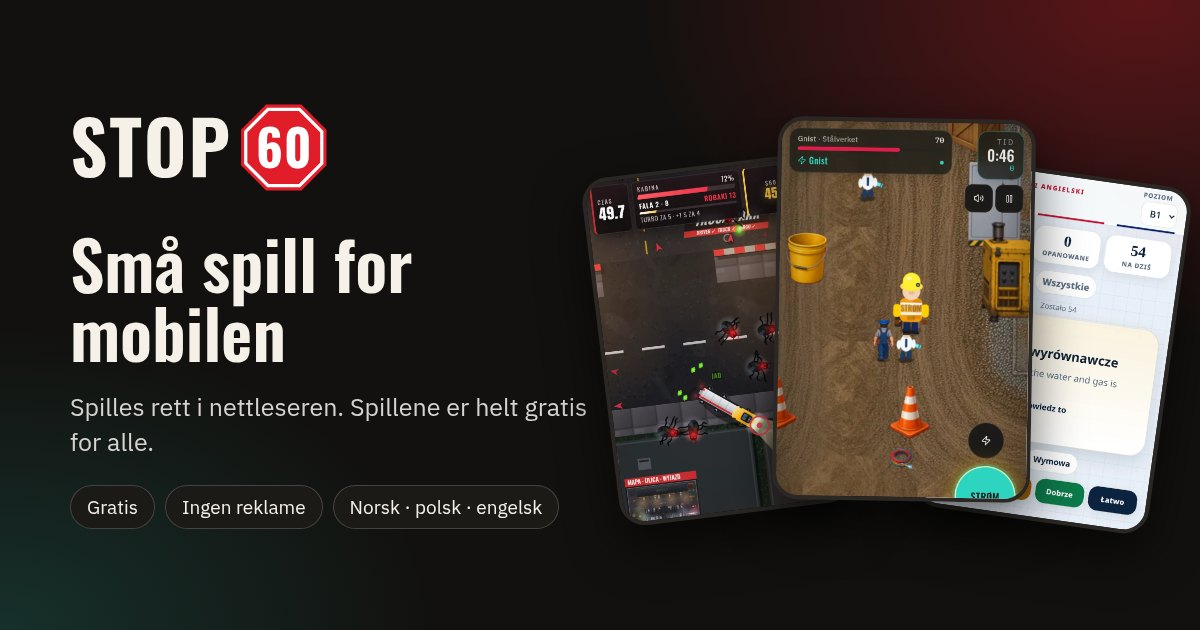
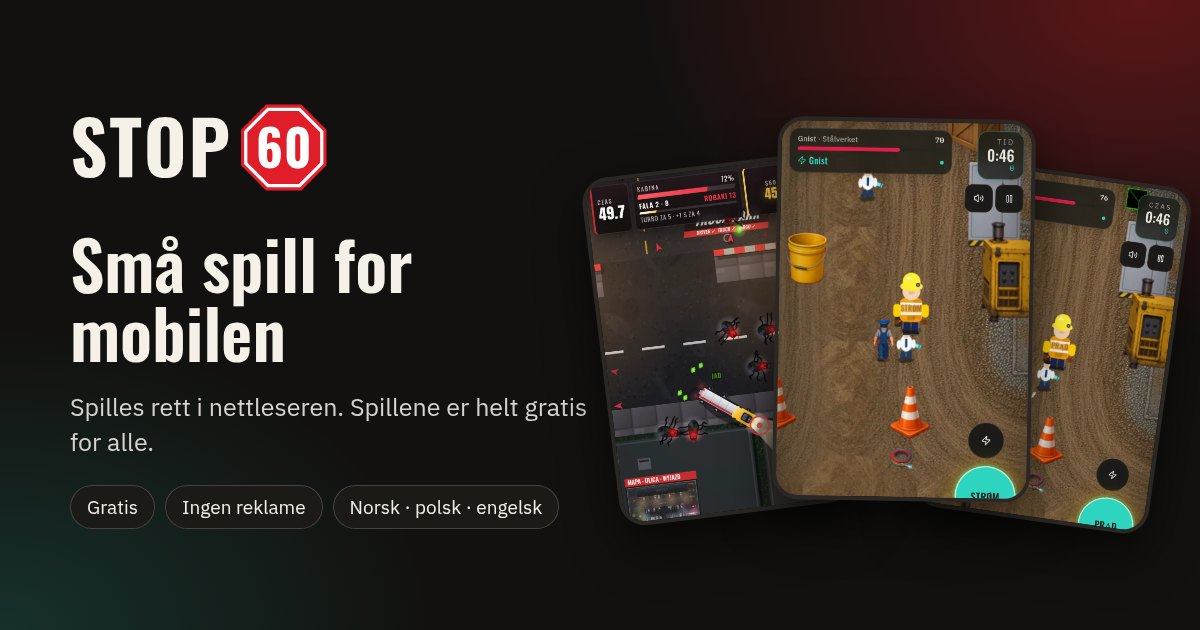
Remove Angielski elektryk from portfolio (card, JSON-LD, OG images, event); intro: games made with passion

Changed region(s): [[0.7708, 0.2714, 1.0, 0.8444]]

diff --git a/en/index.html b/en/index.html
@@ -27,7 +27,7 @@
 <meta property="og:locale" content="en_GB"/>
 <meta property="og:locale:alternate" content="nb_NO"/>
 <meta property="og:locale:alternate" content="pl_PL"/>
-<meta property="og:image" content="https://stop60.no/portfolio-test/assets/og-en.jpg"/>
+<meta property="og:image" content="https://stop60.no/portfolio-test/assets/og-en.jpg?v=2"/>
 <meta property="og:image:type" content="image/jpeg"/>
 <meta property="og:image:width" content="1200"/>
 <meta property="og:image:height" content="630"/>
@@ -35,9 +35,9 @@
 <meta name="twitter:card" content="summary_large_image"/>
 <meta name="twitter:title" content="Stop60 – small free browser games"/>
 <meta name="twitter:description" content="Small phone games from Stop60. Play straight in the browser, completely free and with no ads. English, Norwegian and Polish."/>
-<meta name="twitter:image" content="https://stop60.no/portfolio-test/assets/og-en.jpg"/>
+<meta name="twitter:image" content="https://stop60.no/portfolio-test/assets/og-en.jpg?v=2"/>
 <meta name="twitter:image:alt" content="Stop60 – Small free browser games"/>
-<script type="application/ld+json">{"@context":"https://schema.org","@graph":[{"@type":"Organization","@id":"https://stop60.no/#org","name":"Stop60","url":"https://stop60.no/","logo":"https://stop60.no/assets/apple-touch-icon.png"},{"@type":"ItemList","name":"Stop60 – small free browser games","url":"https://stop60.no/portfolio/en/","itemListElement":[{"@type":"ListItem","position":1,"item":{"@type":"VideoGame","name":"POWER","url":"https://stop60.no/power/","description":"A short action game: for 60 seconds you control an electrician on a construction site. Short health and safety reminders appear as you play.","inLanguage":["en"],"image":"https://stop60.no/portfolio-test/assets/img/power-800.webp","operatingSystem":"Any (web browser)","isAccessibleForFree":true,"offers":{"@type":"Offer","price":"0","priceCurrency":"NOK"},"publisher":{"@id":"https://stop60.no/#org"},"author":{"@id":"https://stop60.no/#org"},"gamePlatform":"Web browser","applicationCategory":"GameApplication","playMode":"SinglePlayer"}},{"@type":"ListItem","position":2,"item":{"@type":"VideoGame","name":"STRØM","url":"https://stop60.no/strom/","description":"The Norwegian version of POWER, with short reminders based on Norwegian HMS (health and safety) rules.","inLanguage":["nb"],"image":"https://stop60.no/portfolio-test/assets/img/strom-800.webp","operatingSystem":"Any (web browser)","isAccessibleForFree":true,"offers":{"@type":"Offer","price":"0","priceCurrency":"NOK"},"publisher":{"@id":"https://stop60.no/#org"},"author":{"@id":"https://stop60.no/#org"},"gamePlatform":"Web browser","applicationCategory":"GameApplication","playMode":"SinglePlayer"}},{"@type":"ListItem","position":3,"item":{"@type":"VideoGame","name":"PRĄD","url":"https://stop60.no/prad/","description":"The Polish version of POWER, with short reminders based on Polish BHP (health and safety) rules.","inLanguage":["pl"],"image":"https://stop60.no/portfolio-test/assets/img/prad-800.webp","operatingSystem":"Any (web browser)","isAccessibleForFree":true,"offers":{"@type":"Offer","price":"0","priceCurrency":"NOK"},"publisher":{"@id":"https://stop60.no/#org"},"author":{"@id":"https://stop60.no/#org"},"gamePlatform":"Web browser","applicationCategory":"GameApplication","playMode":"SinglePlayer"}},{"@type":"ListItem","position":4,"item":{"@type":"VideoGame","name":"Sneaky Bugs","url":"https://stop60.no/robaki/","description":"Drive a truck around a car park at night, squash black bugs and dodge their venom. Each round lasts 60 seconds.","inLanguage":["pl","en"],"image":"https://stop60.no/portfolio-test/assets/img/robaki-800.webp","operatingSystem":"Any (web browser)","isAccessibleForFree":true,"offers":{"@type":"Offer","price":"0","priceCurrency":"NOK"},"publisher":{"@id":"https://stop60.no/#org"},"author":{"@id":"https://stop60.no/#org"},"gamePlatform":"Web browser","applicationCategory":"GameApplication","playMode":"SinglePlayer"}},{"@type":"ListItem","position":5,"item":{"@type":"WebApplication","name":"Angielski elektryk","url":"https://stop60.no/angielski-elektryk/","description":"Practise British English for work: conversations with an AI tutor called Sam about situations on site and at a customer's, plus flashcards with trade vocabulary. Made for Polish-speaking electricians.","inLanguage":["en","pl"],"image":"https://stop60.no/portfolio-test/assets/img/angielski-cards-800.webp","operatingSystem":"Any (web browser)","isAccessibleForFree":true,"offers":{"@type":"Offer","price":"0","priceCurrency":"NOK"},"publisher":{"@id":"https://stop60.no/#org"},"author":{"@id":"https://stop60.no/#org"},"applicationCategory":"EducationalApplication"}}]}]}</script>
+<script type="application/ld+json">{"@context":"https://schema.org","@graph":[{"@type":"Organization","@id":"https://stop60.no/#org","name":"Stop60","url":"https://stop60.no/","logo":"https://stop60.no/assets/apple-touch-icon.png"},{"@type":"ItemList","name":"Stop60 – small free browser games","url":"https://stop60.no/portfolio/en/","itemListElement":[{"@type":"ListItem","position":1,"item":{"@type":"VideoGame","name":"POWER","url":"https://stop60.no/power/","description":"A short action game: for 60 seconds you control an electrician on a construction site. Short health and safety reminders appear as you play.","inLanguage":["en"],"image":"https://stop60.no/portfolio-test/assets/img/power-800.webp","operatingSystem":"Any (web browser)","isAccessibleForFree":true,"offers":{"@type":"Offer","price":"0","priceCurrency":"NOK"},"publisher":{"@id":"https://stop60.no/#org"},"author":{"@id":"https://stop60.no/#org"},"gamePlatform":"Web browser","applicationCategory":"GameApplication","playMode":"SinglePlayer"}},{"@type":"ListItem","position":2,"item":{"@type":"VideoGame","name":"STRØM","url":"https://stop60.no/strom/","description":"The Norwegian version of POWER, with short reminders based on Norwegian HMS (health and safety) rules.","inLanguage":["nb"],"image":"https://stop60.no/portfolio-test/assets/img/strom-800.webp","operatingSystem":"Any (web browser)","isAccessibleForFree":true,"offers":{"@type":"Offer","price":"0","priceCurrency":"NOK"},"publisher":{"@id":"https://stop60.no/#org"},"author":{"@id":"https://stop60.no/#org"},"gamePlatform":"Web browser","applicationCategory":"GameApplication","playMode":"SinglePlayer"}},{"@type":"ListItem","position":3,"item":{"@type":"VideoGame","name":"PRĄD","url":"https://stop60.no/prad/","description":"The Polish version of POWER, with short reminders based on Polish BHP (health and safety) rules.","inLanguage":["pl"],"image":"https://stop60.no/portfolio-test/assets/img/prad-800.webp","operatingSystem":"Any (web browser)","isAccessibleForFree":true,"offers":{"@type":"Offer","price":"0","priceCurrency":"NOK"},"publisher":{"@id":"https://stop60.no/#org"},"author":{"@id":"https://stop60.no/#org"},"gamePlatform":"Web browser","applicationCategory":"GameApplication","playMode":"SinglePlayer"}},{"@type":"ListItem","position":4,"item":{"@type":"VideoGame","name":"Sneaky Bugs","url":"https://stop60.no/robaki/","description":"Drive a truck around a car park at night, squash black bugs and dodge their venom. Each round lasts 60 seconds.","inLanguage":["pl","en"],"image":"https://stop60.no/portfolio-test/assets/img/robaki-800.webp","operatingSystem":"Any (web browser)","isAccessibleForFree":true,"offers":{"@type":"Offer","price":"0","priceCurrency":"NOK"},"publisher":{"@id":"https://stop60.no/#org"},"author":{"@id":"https://stop60.no/#org"},"gamePlatform":"Web browser","applicationCategory":"GameApplication","playMode":"SinglePlayer"}}]}]}</script>
 <script data-goatcounter="https://jtaczala-games.goatcounter.com/count" async src="../count.js"></script>
 <script defer src="../assets/qrcode.min.js"></script>
 <script defer src="../assets/app.js?v=1"></script>
@@ -52,7 +52,7 @@
 <section class="intro"><div class="wrap">
 <p class="k">Games from Stop60</p>
 <h1>Small games for your phone</h1>
-<p class="lead">Stop60 makes small phone games that you play straight in the browser. They are made by a tradesman. <b>The games are completely free for everyone.</b></p>
+<p class="lead">Stop60 makes small phone games that you play straight in the browser. They are made with passion. <b>The games are completely free for everyone.</b></p>
 <ul class="pills"><li>Free</li><li>No ads</li><li>No app to download</li></ul>
 </div></section>
 <section class="s" id="games"><div class="wrap">
@@ -62,7 +62,6 @@
 <li class="game" id="strom"><div class="shot"><img src="../assets/img/strom-420.webp" srcset="../assets/img/strom-420.webp 420w, ../assets/img/strom-800.webp 800w" sizes="(min-width:1080px) 360px, (min-width:720px) 46vw, 92vw" width="800" height="1201" loading="lazy" decoding="async" alt="STRØM – screenshot"/></div><div class="body"><h3>STRØM</h3><p class="sub">Electrician on site · Norway</p><p class="desc">The Norwegian version of POWER, with short reminders based on Norwegian HMS (health and safety) rules.</p><dl class="meta"><dt>Languages</dt><dd>Norwegian</dd><dt>Platform</dt><dd>Plays in the browser · free · no ads</dd></dl><div class="acts"><a class="btn" href="/strom/?ref=portfolio" data-gc="portfolio-click-strom">Play</a></div></div></li>
 <li class="game" id="prad"><div class="shot"><img src="../assets/img/prad-420.webp" srcset="../assets/img/prad-420.webp 420w, ../assets/img/prad-800.webp 800w" sizes="(min-width:1080px) 360px, (min-width:720px) 46vw, 92vw" width="800" height="1201" loading="lazy" decoding="async" alt="PRĄD – screenshot"/></div><div class="body"><h3>PRĄD</h3><p class="sub">Electrician on site · Poland</p><p class="desc">The Polish version of POWER, with short reminders based on Polish BHP (health and safety) rules.</p><dl class="meta"><dt>Languages</dt><dd>Polish</dd><dt>Platform</dt><dd>Plays in the browser · free · no ads</dd></dl><div class="acts"><a class="btn" href="/prad/?ref=portfolio" data-gc="portfolio-click-prad">Play</a></div></div></li>
 <li class="game" id="robaki"><div class="shot"><img src="../assets/img/robaki-en-420.webp" srcset="../assets/img/robaki-en-420.webp 420w, ../assets/img/robaki-en-800.webp 800w" sizes="(min-width:1080px) 360px, (min-width:720px) 46vw, 92vw" width="800" height="1201" loading="lazy" decoding="async" alt="Sneaky Bugs – screenshot"/></div><div class="body"><h3>Sneaky Bugs</h3><p class="sub">Truck vs bugs</p><p class="desc">Drive a truck around a car park at night, squash black bugs and dodge their venom. Each round lasts 60 seconds.</p><dl class="meta"><dt>Languages</dt><dd>Polish, English</dd><dt>Platform</dt><dd>Plays in the browser · free · no ads</dd></dl><div class="acts"><a class="btn" href="/robaki/en/?ref=portfolio" data-gc="portfolio-click-robaki-en" hreflang="en">Play <small>EN</small></a><a class="btn alt" href="/robaki/?ref=portfolio" data-gc="portfolio-click-robaki" hreflang="pl">Play <small>PL</small></a></div></div></li>
-<li class="game" id="angielski"><div class="shot"><img src="../assets/img/angielski-cards-420.webp" srcset="../assets/img/angielski-cards-420.webp 420w, ../assets/img/angielski-cards-800.webp 800w" sizes="(min-width:1080px) 360px, (min-width:720px) 46vw, 92vw" width="800" height="1201" loading="lazy" decoding="async" alt="Angielski elektryk – screenshot"/></div><div class="body"><h3>Angielski elektryk</h3><p class="sub">British English for electricians</p><p class="desc">Practise British English for work: conversations with an AI tutor called Sam about situations on site and at a customer&#x27;s, plus flashcards with trade vocabulary. Made for Polish-speaking electricians.</p><p class="note">Conversations with Sam need your own API key (OpenAI or xAI). The key stays in your browser only. The flashcards work without a key.</p><dl class="meta"><dt>Languages</dt><dd>British English, Polish interface</dd><dt>Platform</dt><dd>Runs in the browser · free · no ads</dd></dl><div class="acts"><a class="btn" href="/angielski-elektryk/?ref=portfolio" data-gc="portfolio-click-angielski">Open</a></div></div></li>
 <li class="game" id="hefau"><div class="shot"><svg viewBox="0 0 400 600" role="img" aria-label="Hefau – The Serpent Spiral" xmlns="http://www.w3.org/2000/svg">
 <defs><radialGradient id="sg" cx="50%" cy="50%" r="65%"><stop offset="0" stop-color="#3a2a12"/><stop offset="1" stop-color="#120d07"/></radialGradient></defs>
 <rect width="400" height="600" fill="url(#sg)"/>

diff --git a/index.html b/index.html
@@ -27,7 +27,7 @@
 <meta property="og:locale" content="nb_NO"/>
 <meta property="og:locale:alternate" content="pl_PL"/>
 <meta property="og:locale:alternate" content="en_GB"/>
-<meta property="og:image" content="https://stop60.no/portfolio-test/assets/og-no.jpg"/>
+<meta property="og:image" content="https://stop60.no/portfolio-test/assets/og-no.jpg?v=2"/>
 <meta property="og:image:type" content="image/jpeg"/>
 <meta property="og:image:width" content="1200"/>
 <meta property="og:image:height" content="630"/>
@@ -35,9 +35,9 @@
 <meta name="twitter:card" content="summary_large_image"/>
 <meta name="twitter:title" content="Stop60 – små gratisspill i nettleseren"/>
 <meta name="twitter:description" content="Små spill for mobilen fra Stop60. Spilles rett i nettleseren, helt gratis og uten reklame. Norsk, polsk og engelsk."/>
-<meta name="twitter:image" content="https://stop60.no/portfolio-test/assets/og-no.jpg"/>
+<meta name="twitter:image" content="https://stop60.no/portfolio-test/assets/og-no.jpg?v=2"/>
 <meta name="twitter:image:alt" content="Stop60 – Små gratisspill i nettleseren"/>
-<script type="application/ld+json">{"@context":"https://schema.org","@graph":[{"@type":"Organization","@id":"https://stop60.no/#org","name":"Stop60","url":"https://stop60.no/","logo":"https://stop60.no/assets/apple-touch-icon.png"},{"@type":"ItemList","name":"Stop60 – små gratisspill i nettleseren","url":"https://stop60.no/portfolio/","itemListElement":[{"@type":"ListItem","position":1,"item":{"@type":"VideoGame","name":"STRØM","url":"https://stop60.no/strom/","description":"Et kort actionspill der du styrer en elektriker på byggeplassen i 60 sekunder. Underveis dukker det opp korte huskeregler om HMS.","inLanguage":["nb"],"image":"https://stop60.no/portfolio-test/assets/img/strom-800.webp","operatingSystem":"Any (web browser)","isAccessibleForFree":true,"offers":{"@type":"Offer","price":"0","priceCurrency":"NOK"},"publisher":{"@id":"https://stop60.no/#org"},"author":{"@id":"https://stop60.no/#org"},"gamePlatform":"Web browser","applicationCategory":"GameApplication","playMode":"SinglePlayer"}},{"@type":"ListItem","position":2,"item":{"@type":"VideoGame","name":"PRĄD","url":"https://stop60.no/prad/","description":"Den polske versjonen av STRØM, med korte huskeregler om polsk BHP (HMS).","inLanguage":["pl"],"image":"https://stop60.no/portfolio-test/assets/img/prad-800.webp","operatingSystem":"Any (web browser)","isAccessibleForFree":true,"offers":{"@type":"Offer","price":"0","priceCurrency":"NOK"},"publisher":{"@id":"https://stop60.no/#org"},"author":{"@id":"https://stop60.no/#org"},"gamePlatform":"Web browser","applicationCategory":"GameApplication","playMode":"SinglePlayer"}},{"@type":"ListItem","position":3,"item":{"@type":"VideoGame","name":"POWER","url":"https://stop60.no/power/","description":"Den engelske versjonen av STRØM, med korte huskeregler om Health & Safety.","inLanguage":["en"],"image":"https://stop60.no/portfolio-test/assets/img/power-800.webp","operatingSystem":"Any (web browser)","isAccessibleForFree":true,"offers":{"@type":"Offer","price":"0","priceCurrency":"NOK"},"publisher":{"@id":"https://stop60.no/#org"},"author":{"@id":"https://stop60.no/#org"},"gamePlatform":"Web browser","applicationCategory":"GameApplication","playMode":"SinglePlayer"}},{"@type":"ListItem","position":4,"item":{"@type":"VideoGame","name":"Sneaky Bugs","url":"https://stop60.no/robaki/","description":"Du kjører en lastebil på en parkeringsplass om natten, knuser svarte kryp og unngår giften deres. Hver runde varer 60 sekunder.","inLanguage":["pl","en"],"image":"https://stop60.no/portfolio-test/assets/img/robaki-800.webp","operatingSystem":"Any (web browser)","isAccessibleForFree":true,"offers":{"@type":"Offer","price":"0","priceCurrency":"NOK"},"publisher":{"@id":"https://stop60.no/#org"},"author":{"@id":"https://stop60.no/#org"},"gamePlatform":"Web browser","applicationCategory":"GameApplication","playMode":"SinglePlayer"}},{"@type":"ListItem","position":5,"item":{"@type":"WebApplication","name":"Angielski elektryk","url":"https://stop60.no/angielski-elektryk/","description":"Øv på britisk engelsk for jobben: samtaler med AI-læreren Sam om situasjoner på byggeplassen og hos kunden, og ordkort med fagord. Laget for polsktalende elektrikere.","inLanguage":["en","pl"],"image":"https://stop60.no/portfolio-test/assets/img/angielski-cards-800.webp","operatingSystem":"Any (web browser)","isAccessibleForFree":true,"offers":{"@type":"Offer","price":"0","priceCurrency":"NOK"},"publisher":{"@id":"https://stop60.no/#org"},"author":{"@id":"https://stop60.no/#org"},"applicationCategory":"EducationalApplication"}}]}]}</script>
+<script type="application/ld+json">{"@context":"https://schema.org","@graph":[{"@type":"Organization","@id":"https://stop60.no/#org","name":"Stop60","url":"https://stop60.no/","logo":"https://stop60.no/assets/apple-touch-icon.png"},{"@type":"ItemList","name":"Stop60 – små gratisspill i nettleseren","url":"https://stop60.no/portfolio/","itemListElement":[{"@type":"ListItem","position":1,"item":{"@type":"VideoGame","name":"STRØM","url":"https://stop60.no/strom/","description":"Et kort actionspill der du styrer en elektriker på byggeplassen i 60 sekunder. Underveis dukker det opp korte huskeregler om HMS.","inLanguage":["nb"],"image":"https://stop60.no/portfolio-test/assets/img/strom-800.webp","operatingSystem":"Any (web browser)","isAccessibleForFree":true,"offers":{"@type":"Offer","price":"0","priceCurrency":"NOK"},"publisher":{"@id":"https://stop60.no/#org"},"author":{"@id":"https://stop60.no/#org"},"gamePlatform":"Web browser","applicationCategory":"GameApplication","playMode":"SinglePlayer"}},{"@type":"ListItem","position":2,"item":{"@type":"VideoGame","name":"PRĄD","url":"https://stop60.no/prad/","description":"Den polske versjonen av STRØM, med korte huskeregler om polsk BHP (HMS).","inLanguage":["pl"],"image":"https://stop60.no/portfolio-test/assets/img/prad-800.webp","operatingSystem":"Any (web browser)","isAccessibleForFree":true,"offers":{"@type":"Offer","price":"0","priceCurrency":"NOK"},"publisher":{"@id":"https://stop60.no/#org"},"author":{"@id":"https://stop60.no/#org"},"gamePlatform":"Web browser","applicationCategory":"GameApplication","playMode":"SinglePlayer"}},{"@type":"ListItem","position":3,"item":{"@type":"VideoGame","name":"POWER","url":"https://stop60.no/power/","description":"Den engelske versjonen av STRØM, med korte huskeregler om Health & Safety.","inLanguage":["en"],"image":"https://stop60.no/portfolio-test/assets/img/power-800.webp","operatingSystem":"Any (web browser)","isAccessibleForFree":true,"offers":{"@type":"Offer","price":"0","priceCurrency":"NOK"},"publisher":{"@id":"https://stop60.no/#org"},"author":{"@id":"https://stop60.no/#org"},"gamePlatform":"Web browser","applicationCategory":"GameApplication","playMode":"SinglePlayer"}},{"@type":"ListItem","position":4,"item":{"@type":"VideoGame","name":"Sneaky Bugs","url":"https://stop60.no/robaki/","description":"Du kjører en lastebil på en parkeringsplass om natten, knuser svarte kryp og unngår giften deres. Hver runde varer 60 sekunder.","inLanguage":["pl","en"],"image":"https://stop60.no/portfolio-test/assets/img/robaki-800.webp","operatingSystem":"Any (web browser)","isAccessibleForFree":true,"offers":{"@type":"Offer","price":"0","priceCurrency":"NOK"},"publisher":{"@id":"https://stop60.no/#org"},"author":{"@id":"https://stop60.no/#org"},"gamePlatform":"Web browser","applicationCategory":"GameApplication","playMode":"SinglePlayer"}}]}]}</script>
 <script data-goatcounter="https://jtaczala-games.goatcounter.com/count" async src="count.js"></script>
 <script defer src="assets/qrcode.min.js"></script>
 <script defer src="assets/app.js?v=1"></script>
@@ -52,7 +52,7 @@
 <section class="intro"><div class="wrap">
 <p class="k">Spill fra Stop60</p>
 <h1>Små spill for mobilen</h1>
-<p class="lead">Stop60 lager små spill for mobilen som spilles rett i nettleseren. De er laget av en håndverker. <b>Spillene er helt gratis for alle.</b></p>
+<p class="lead">Stop60 lager små spill for mobilen som spilles rett i nettleseren. De lages med lidenskap. <b>Spillene er helt gratis for alle.</b></p>
 <ul class="pills"><li>Gratis</li><li>Ingen reklame</li><li>Ingen app å laste ned</li></ul>
 </div></section>
 <section class="s" id="games"><div class="wrap">
@@ -62,7 +62,6 @@
 <li class="game" id="prad"><div class="shot"><img src="assets/img/prad-420.webp" srcset="assets/img/prad-420.webp 420w, assets/img/prad-800.webp 800w" sizes="(min-width:1080px) 360px, (min-width:720px) 46vw, 92vw" width="800" height="1201" loading="lazy" decoding="async" alt="PRĄD – skjermbilde fra spillet"/></div><div class="body"><h3>PRĄD</h3><p class="sub">Elektriker på byggeplassen · polsk</p><p class="desc">Den polske versjonen av STRØM, med korte huskeregler om polsk BHP (HMS).</p><dl class="meta"><dt>Språk</dt><dd>Polsk</dd><dt>Plattform</dt><dd>Spilles i nettleseren · gratis · ingen reklame</dd></dl><div class="acts"><a class="btn" href="/prad/?ref=portfolio" data-gc="portfolio-click-prad">Spill</a></div></div></li>
 <li class="game" id="power"><div class="shot"><img src="assets/img/power-420.webp" srcset="assets/img/power-420.webp 420w, assets/img/power-800.webp 800w" sizes="(min-width:1080px) 360px, (min-width:720px) 46vw, 92vw" width="800" height="1201" loading="lazy" decoding="async" alt="POWER – skjermbilde fra spillet"/></div><div class="body"><h3>POWER</h3><p class="sub">Elektriker på byggeplassen · engelsk</p><p class="desc">Den engelske versjonen av STRØM, med korte huskeregler om Health &amp; Safety.</p><dl class="meta"><dt>Språk</dt><dd>Engelsk</dd><dt>Plattform</dt><dd>Spilles i nettleseren · gratis · ingen reklame</dd></dl><div class="acts"><a class="btn" href="/power/?ref=portfolio" data-gc="portfolio-click-power">Spill</a></div></div></li>
 <li class="game" id="robaki"><div class="shot"><img src="assets/img/robaki-420.webp" srcset="assets/img/robaki-420.webp 420w, assets/img/robaki-800.webp 800w" sizes="(min-width:1080px) 360px, (min-width:720px) 46vw, 92vw" width="800" height="1201" loading="lazy" decoding="async" alt="Sneaky Bugs – skjermbilde fra spillet"/></div><div class="body"><h3>Sneaky Bugs</h3><p class="sub">Lastebil mot kryp</p><p class="desc">Du kjører en lastebil på en parkeringsplass om natten, knuser svarte kryp og unngår giften deres. Hver runde varer 60 sekunder.</p><dl class="meta"><dt>Språk</dt><dd>Polsk, engelsk</dd><dt>Plattform</dt><dd>Spilles i nettleseren · gratis · ingen reklame</dd></dl><div class="acts"><a class="btn" href="/robaki/?ref=portfolio" data-gc="portfolio-click-robaki" hreflang="pl">Spill <small>PL</small></a><a class="btn alt" href="/robaki/en/?ref=portfolio" data-gc="portfolio-click-robaki-en" hreflang="en">Spill <small>EN</small></a></div></div></li>
-<li class="game" id="angielski"><div class="shot"><img src="assets/img/angielski-cards-420.webp" srcset="assets/img/angielski-cards-420.webp 420w, assets/img/angielski-cards-800.webp 800w" sizes="(min-width:1080px) 360px, (min-width:720px) 46vw, 92vw" width="800" height="1201" loading="lazy" decoding="async" alt="Angielski elektryk – skjermbilde fra spillet"/></div><div class="body"><h3>Angielski elektryk</h3><p class="sub">Britisk engelsk for elektrikere</p><p class="desc">Øv på britisk engelsk for jobben: samtaler med AI-læreren Sam om situasjoner på byggeplassen og hos kunden, og ordkort med fagord. Laget for polsktalende elektrikere.</p><p class="note">Samtaler med Sam krever din egen API-nøkkel (OpenAI eller xAI). Nøkkelen lagres bare i nettleseren din. Ordkortene virker uten nøkkel.</p><dl class="meta"><dt>Språk</dt><dd>Britisk engelsk, polsk grensesnitt</dd><dt>Plattform</dt><dd>Kjører i nettleseren · gratis · ingen reklame</dd></dl><div class="acts"><a class="btn" href="/angielski-elektryk/?ref=portfolio" data-gc="portfolio-click-angielski">Åpne</a></div></div></li>
 <li class="game" id="hefau"><div class="shot"><svg viewBox="0 0 400 600" role="img" aria-label="Hefau – Slangespiralen" xmlns="http://www.w3.org/2000/svg">
 <defs><radialGradient id="sg" cx="50%" cy="50%" r="65%"><stop offset="0" stop-color="#3a2a12"/><stop offset="1" stop-color="#120d07"/></radialGradient></defs>
 <rect width="400" height="600" fill="url(#sg)"/>

diff --git a/pl/index.html b/pl/index.html
@@ -27,7 +27,7 @@
 <meta property="og:locale" content="pl_PL"/>
 <meta property="og:locale:alternate" content="nb_NO"/>
 <meta property="og:locale:alternate" content="en_GB"/>
-<meta property="og:image" content="https://stop60.no/portfolio-test/assets/og-pl.jpg"/>
+<meta property="og:image" content="https://stop60.no/portfolio-test/assets/og-pl.jpg?v=2"/>
 <meta property="og:image:type" content="image/jpeg"/>
 <meta property="og:image:width" content="1200"/>
 <meta property="og:image:height" content="630"/>
@@ -35,9 +35,9 @@
 <meta name="twitter:card" content="summary_large_image"/>
 <meta name="twitter:title" content="Stop60 – małe darmowe gry w przeglądarce"/>
 <meta name="twitter:description" content="Małe gry na telefon od Stop60. Grasz prosto w przeglądarce, całkowicie za darmo i bez reklam. Po polsku, norwesku i angielsku."/>
-<meta name="twitter:image" content="https://stop60.no/portfolio-test/assets/og-pl.jpg"/>
+<meta name="twitter:image" content="https://stop60.no/portfolio-test/assets/og-pl.jpg?v=2"/>
 <meta name="twitter:image:alt" content="Stop60 – Małe darmowe gry w przeglądarce"/>
-<script type="application/ld+json">{"@context":"https://schema.org","@graph":[{"@type":"Organization","@id":"https://stop60.no/#org","name":"Stop60","url":"https://stop60.no/","logo":"https://stop60.no/assets/apple-touch-icon.png"},{"@type":"ItemList","name":"Stop60 – małe darmowe gry w przeglądarce","url":"https://stop60.no/portfolio/pl/","itemListElement":[{"@type":"ListItem","position":1,"item":{"@type":"VideoGame","name":"PRĄD","url":"https://stop60.no/prad/","description":"Krótka gra akcji: przez 60 sekund kierujesz elektrykiem na budowie. W trakcie pojawiają się krótkie hasła o zasadach BHP.","inLanguage":["pl"],"image":"https://stop60.no/portfolio-test/assets/img/prad-800.webp","operatingSystem":"Any (web browser)","isAccessibleForFree":true,"offers":{"@type":"Offer","price":"0","priceCurrency":"NOK"},"publisher":{"@id":"https://stop60.no/#org"},"author":{"@id":"https://stop60.no/#org"},"gamePlatform":"Web browser","applicationCategory":"GameApplication","playMode":"SinglePlayer"}},{"@type":"ListItem","position":2,"item":{"@type":"VideoGame","name":"STRØM","url":"https://stop60.no/strom/","description":"Norweska wersja gry PRĄD, z krótkimi hasłami o norweskich zasadach HMS.","inLanguage":["nb"],"image":"https://stop60.no/portfolio-test/assets/img/strom-800.webp","operatingSystem":"Any (web browser)","isAccessibleForFree":true,"offers":{"@type":"Offer","price":"0","priceCurrency":"NOK"},"publisher":{"@id":"https://stop60.no/#org"},"author":{"@id":"https://stop60.no/#org"},"gamePlatform":"Web browser","applicationCategory":"GameApplication","playMode":"SinglePlayer"}},{"@type":"ListItem","position":3,"item":{"@type":"VideoGame","name":"POWER","url":"https://stop60.no/power/","description":"Angielska wersja gry PRĄD, z krótkimi hasłami o Health & Safety.","inLanguage":["en"],"image":"https://stop60.no/portfolio-test/assets/img/power-800.webp","operatingSystem":"Any (web browser)","isAccessibleForFree":true,"offers":{"@type":"Offer","price":"0","priceCurrency":"NOK"},"publisher":{"@id":"https://stop60.no/#org"},"author":{"@id":"https://stop60.no/#org"},"gamePlatform":"Web browser","applicationCategory":"GameApplication","playMode":"SinglePlayer"}},{"@type":"ListItem","position":4,"item":{"@type":"VideoGame","name":"Sneaky Bugs","url":"https://stop60.no/robaki/","description":"Jeździsz ciężarówką po nocnym parkingu, rozgniatasz czarne robaki i unikasz ich jadu. Runda trwa 60 sekund.","inLanguage":["pl","en"],"image":"https://stop60.no/portfolio-test/assets/img/robaki-800.webp","operatingSystem":"Any (web browser)","isAccessibleForFree":true,"offers":{"@type":"Offer","price":"0","priceCurrency":"NOK"},"publisher":{"@id":"https://stop60.no/#org"},"author":{"@id":"https://stop60.no/#org"},"gamePlatform":"Web browser","applicationCategory":"GameApplication","playMode":"SinglePlayer"}},{"@type":"ListItem","position":5,"item":{"@type":"WebApplication","name":"Angielski elektryk","url":"https://stop60.no/angielski-elektryk/","description":"Ćwiczysz brytyjski angielski do pracy: rozmowy z nauczycielem AI o imieniu Sam w sytuacjach z budowy i u klienta oraz fiszki ze słówkami branżowymi.","inLanguage":["en","pl"],"image":"https://stop60.no/portfolio-test/assets/img/angielski-cards-800.webp","operatingSystem":"Any (web browser)","isAccessibleForFree":true,"offers":{"@type":"Offer","price":"0","priceCurrency":"NOK"},"publisher":{"@id":"https://stop60.no/#org"},"author":{"@id":"https://stop60.no/#org"},"applicationCategory":"EducationalApplication"}}]}]}</script>
+<script type="application/ld+json">{"@context":"https://schema.org","@graph":[{"@type":"Organization","@id":"https://stop60.no/#org","name":"Stop60","url":"https://stop60.no/","logo":"https://stop60.no/assets/apple-touch-icon.png"},{"@type":"ItemList","name":"Stop60 – małe darmowe gry w przeglądarce","url":"https://stop60.no/portfolio/pl/","itemListElement":[{"@type":"ListItem","position":1,"item":{"@type":"VideoGame","name":"PRĄD","url":"https://stop60.no/prad/","description":"Krótka gra akcji: przez 60 sekund kierujesz elektrykiem na budowie. W trakcie pojawiają się krótkie hasła o zasadach BHP.","inLanguage":["pl"],"image":"https://stop60.no/portfolio-test/assets/img/prad-800.webp","operatingSystem":"Any (web browser)","isAccessibleForFree":true,"offers":{"@type":"Offer","price":"0","priceCurrency":"NOK"},"publisher":{"@id":"https://stop60.no/#org"},"author":{"@id":"https://stop60.no/#org"},"gamePlatform":"Web browser","applicationCategory":"GameApplication","playMode":"SinglePlayer"}},{"@type":"ListItem","position":2,"item":{"@type":"VideoGame","name":"STRØM","url":"https://stop60.no/strom/","description":"Norweska wersja gry PRĄD, z krótkimi hasłami o norweskich zasadach HMS.","inLanguage":["nb"],"image":"https://stop60.no/portfolio-test/assets/img/strom-800.webp","operatingSystem":"Any (web browser)","isAccessibleForFree":true,"offers":{"@type":"Offer","price":"0","priceCurrency":"NOK"},"publisher":{"@id":"https://stop60.no/#org"},"author":{"@id":"https://stop60.no/#org"},"gamePlatform":"Web browser","applicationCategory":"GameApplication","playMode":"SinglePlayer"}},{"@type":"ListItem","position":3,"item":{"@type":"VideoGame","name":"POWER","url":"https://stop60.no/power/","description":"Angielska wersja gry PRĄD, z krótkimi hasłami o Health & Safety.","inLanguage":["en"],"image":"https://stop60.no/portfolio-test/assets/img/power-800.webp","operatingSystem":"Any (web browser)","isAccessibleForFree":true,"offers":{"@type":"Offer","price":"0","priceCurrency":"NOK"},"publisher":{"@id":"https://stop60.no/#org"},"author":{"@id":"https://stop60.no/#org"},"gamePlatform":"Web browser","applicationCategory":"GameApplication","playMode":"SinglePlayer"}},{"@type":"ListItem","position":4,"item":{"@type":"VideoGame","name":"Sneaky Bugs","url":"https://stop60.no/robaki/","description":"Jeździsz ciężarówką po nocnym parkingu, rozgniatasz czarne robaki i unikasz ich jadu. Runda trwa 60 sekund.","inLanguage":["pl","en"],"image":"https://stop60.no/portfolio-test/assets/img/robaki-800.webp","operatingSystem":"Any (web browser)","isAccessibleForFree":true,"offers":{"@type":"Offer","price":"0","priceCurrency":"NOK"},"publisher":{"@id":"https://stop60.no/#org"},"author":{"@id":"https://stop60.no/#org"},"gamePlatform":"Web browser","applicationCategory":"GameApplication","playMode":"SinglePlayer"}}]}]}</script>
 <script data-goatcounter="https://jtaczala-games.goatcounter.com/count" async src="../count.js"></script>
 <script defer src="../assets/qrcode.min.js"></script>
 <script defer src="../assets/app.js?v=1"></script>
@@ -52,7 +52,7 @@
 <section class="intro"><div class="wrap">
 <p class="k">Gry od Stop60</p>
 <h1>Małe gry na telefon</h1>
-<p class="lead">Stop60 robi małe gry na telefon, w które gra się prosto w przeglądarce. Tworzy je fachowiec. <b>Gry są całkowicie darmowe dla wszystkich.</b></p>
+<p class="lead">Stop60 robi małe gry na telefon, w które gra się prosto w przeglądarce. Powstają z pasji. <b>Gry są całkowicie darmowe dla wszystkich.</b></p>
 <ul class="pills"><li>Za darmo</li><li>Bez reklam</li><li>Bez instalowania aplikacji</li></ul>
 </div></section>
 <section class="s" id="games"><div class="wrap">
@@ -62,7 +62,6 @@
 <li class="game" id="strom"><div class="shot"><img src="../assets/img/strom-420.webp" srcset="../assets/img/strom-420.webp 420w, ../assets/img/strom-800.webp 800w" sizes="(min-width:1080px) 360px, (min-width:720px) 46vw, 92vw" width="800" height="1201" loading="lazy" decoding="async" alt="STRØM – zrzut ekranu"/></div><div class="body"><h3>STRØM</h3><p class="sub">Elektryk na budowie · Norwegia</p><p class="desc">Norweska wersja gry PRĄD, z krótkimi hasłami o norweskich zasadach HMS.</p><dl class="meta"><dt>Języki</dt><dd>norweski</dd><dt>Platforma</dt><dd>W przeglądarce · za darmo · bez reklam</dd></dl><div class="acts"><a class="btn" href="/strom/?ref=portfolio" data-gc="portfolio-click-strom">Graj</a></div></div></li>
 <li class="game" id="power"><div class="shot"><img src="../assets/img/power-420.webp" srcset="../assets/img/power-420.webp 420w, ../assets/img/power-800.webp 800w" sizes="(min-width:1080px) 360px, (min-width:720px) 46vw, 92vw" width="800" height="1201" loading="lazy" decoding="async" alt="POWER – zrzut ekranu"/></div><div class="body"><h3>POWER</h3><p class="sub">Elektryk na budowie · po angielsku</p><p class="desc">Angielska wersja gry PRĄD, z krótkimi hasłami o Health &amp; Safety.</p><dl class="meta"><dt>Języki</dt><dd>angielski</dd><dt>Platforma</dt><dd>W przeglądarce · za darmo · bez reklam</dd></dl><div class="acts"><a class="btn" href="/power/?ref=portfolio" data-gc="portfolio-click-power">Graj</a></div></div></li>
 <li class="game" id="robaki"><div class="shot"><img src="../assets/img/robaki-420.webp" srcset="../assets/img/robaki-420.webp 420w, ../assets/img/robaki-800.webp 800w" sizes="(min-width:1080px) 360px, (min-width:720px) 46vw, 92vw" width="800" height="1201" loading="lazy" decoding="async" alt="Sneaky Bugs – zrzut ekranu"/></div><div class="body"><h3>Sneaky Bugs</h3><p class="sub">Ciężarówka kontra robaki · Atak Czarnych Robaków</p><p class="desc">Jeździsz ciężarówką po nocnym parkingu, rozgniatasz czarne robaki i unikasz ich jadu. Runda trwa 60 sekund.</p><dl class="meta"><dt>Języki</dt><dd>polski, angielski</dd><dt>Platforma</dt><dd>W przeglądarce · za darmo · bez reklam</dd></dl><div class="acts"><a class="btn" href="/robaki/?ref=portfolio" data-gc="portfolio-click-robaki" hreflang="pl">Graj <small>PL</small></a><a class="btn alt" href="/robaki/en/?ref=portfolio" data-gc="portfolio-click-robaki-en" hreflang="en">Graj <small>EN</small></a></div></div></li>
-<li class="game" id="angielski"><div class="shot"><img src="../assets/img/angielski-cards-420.webp" srcset="../assets/img/angielski-cards-420.webp 420w, ../assets/img/angielski-cards-800.webp 800w" sizes="(min-width:1080px) 360px, (min-width:720px) 46vw, 92vw" width="800" height="1201" loading="lazy" decoding="async" alt="Angielski elektryk – zrzut ekranu"/></div><div class="body"><h3>Angielski elektryk</h3><p class="sub">Brytyjski angielski dla elektryków</p><p class="desc">Ćwiczysz brytyjski angielski do pracy: rozmowy z nauczycielem AI o imieniu Sam w sytuacjach z budowy i u klienta oraz fiszki ze słówkami branżowymi.</p><p class="note">Rozmowy z Samem wymagają własnego klucza API (OpenAI lub xAI). Klucz zostaje tylko w Twojej przeglądarce. Fiszki działają bez klucza.</p><dl class="meta"><dt>Języki</dt><dd>brytyjski angielski, interfejs po polsku</dd><dt>Platforma</dt><dd>W przeglądarce · za darmo · bez reklam</dd></dl><div class="acts"><a class="btn" href="/angielski-elektryk/?ref=portfolio" data-gc="portfolio-click-angielski">Otwórz</a></div></div></li>
 <li class="game" id="hefau"><div class="shot"><svg viewBox="0 0 400 600" role="img" aria-label="Hefau – Spirala Węża" xmlns="http://www.w3.org/2000/svg">
 <defs><radialGradient id="sg" cx="50%" cy="50%" r="65%"><stop offset="0" stop-color="#3a2a12"/><stop offset="1" stop-color="#120d07"/></radialGradient></defs>
 <rect width="400" height="600" fill="url(#sg)"/>
